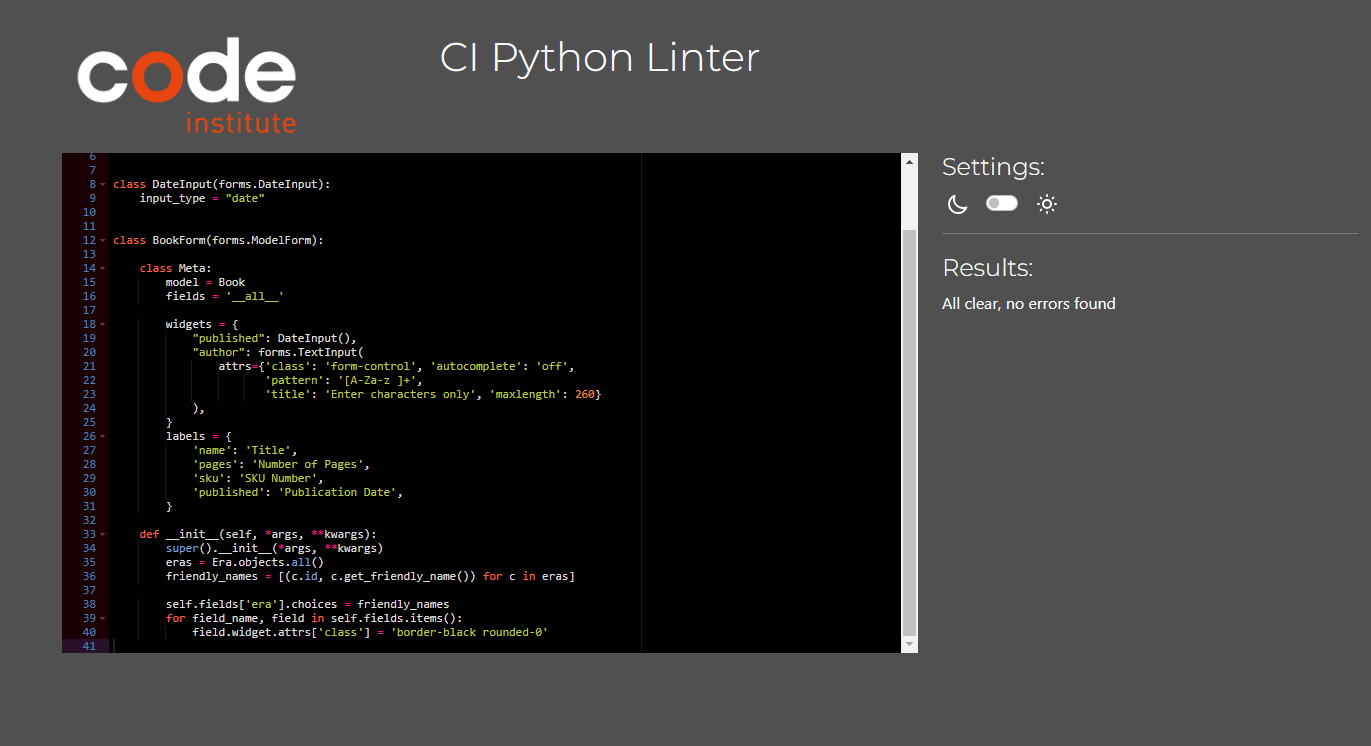
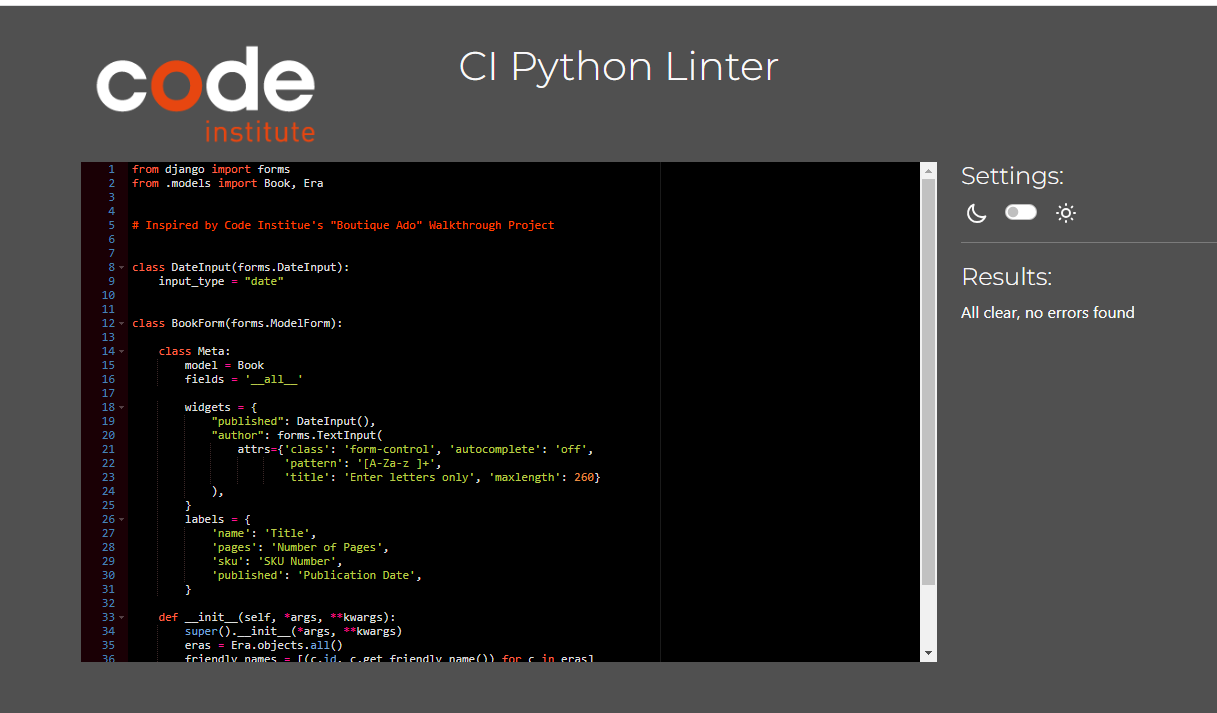
Checkout code review, correct letter only form val

Changed region(s): [[0.0, 0.0, 1.0, 0.9257], [0.3122, 0.0617, 0.6245, 0.1234], [0.3122, 0.4628, 0.3747, 0.4937]]

diff --git a/checkout/templates/checkout/checkout_success.html b/checkout/templates/checkout/checkout_success.html
@@ -3,26 +3,30 @@
 {% load static %}
 
 {% block content %}
+<!-- Order confirmation -->
 <div class="overlay"></div>
+<!-- Checkout success page header -->
 <div class="col main-clr-thm">
     <h2 class="text-center py-2">Thank You For Your Order</h2>
 </div>
+<!-- Order confirmation container -->
 <div class="container">
     <div class="row">
+        <!-- Order confirmation notice -->
         <p class="text-black mt-3 text-break ml-3">
             Please find information below. Shortly a confirmation email should be
             received in the
             email box: <strong>{{ order.email }}</strong>.
         </p>
         <div class="col-12 col-lg-7">
-
+            <!-- Order confirmation wrapper -->
             <div class="order-confirmation-wrapper p-2 border">
+                <!-- Order details info -->
                 <div class="row">
                     <div class="col">
                         <small class="text-muted">Order Info:</small>
                     </div>
                 </div>
-
                 <div class="row">
                     <div class="col-12 col-md-4">
                         <p class="mb-0 text-black font-weight-bold">Order Number</p>
@@ -31,7 +35,6 @@
                         <p class="mb-0">{{ order.order_number }}</p>
                     </div>
                 </div>
-
                 <div class="row">
                     <div class="col-12 col-md-4">
                         <p class="mb-0 text-black font-weight-bold">Order Date</p>
@@ -40,13 +43,11 @@
                         <p class="mb-0">{{ order.date }}</p>
                     </div>
                 </div>
-
                 <div class="row">
                     <div class="col">
                         <small class="text-muted">Order Details:</small>
                     </div>
                 </div>
-
                 {% for item in order.lineitems.all %}
                 <div class="row">
                     <div class="col-12 col-md-4">
@@ -58,13 +59,12 @@
                     </div>
                 </div>
                 {% endfor %}
-
+                <!-- Delivery info -->
                 <div class="row">
                     <div class="col">
                         <small class="text-muted">Delivering To:</small>
                     </div>
                 </div>
-
                 <div class="row">
                     <div class="col-12 col-md-4">
                         <p class="mb-0 text-black font-weight-bold">Full Name</p>
@@ -73,7 +73,6 @@
                         <p class="mb-0">{{ order.full_name }}</p>
                     </div>
                 </div>
-
                 <div class="row">
                     <div class="col-12 col-md-4">
                         <p class="mb-0 text-black font-weight-bold">Address 1</p>
@@ -82,7 +81,6 @@
                         <p class="mb-0">{{ order.street_address1 }}</p>
                     </div>
                 </div>
-
                 {% if order.street_address2 %}
                 <div class="row">
                     <div class="col-12 col-md-4">
@@ -93,7 +91,6 @@
                     </div>
                 </div>
                 {% endif %}
-
                 {% if order.county %}
                 <div class="row">
                     <div class="col-12 col-md-4">
@@ -104,7 +101,6 @@
                     </div>
                 </div>
                 {% endif %}
-
                 <div class="row">
                     <div class="col-12 col-md-4">
                         <p class="mb-0 text-black font-weight-bold">Town or City</p>
@@ -113,7 +109,6 @@
                         <p class="mb-0">{{ order.town_or_city }}</p>
                     </div>
                 </div>
-
                 {% if order.postcode %}
                 <div class="row">
                     <div class="col-12 col-md-4">
@@ -124,7 +119,6 @@
                     </div>
                 </div>
                 {% endif %}
-
                 <div class="row">
                     <div class="col-12 col-md-4">
                         <p class="mb-0 text-black font-weight-bold">Country</p>
@@ -133,7 +127,6 @@
                         <p class="mb-0">{{ order.country }}</p>
                     </div>
                 </div>
-
                 <div class="row">
                     <div class="col-12 col-md-4">
                         <p class="mb-0 text-black font-weight-bold">Phone Number</p>
@@ -142,13 +135,12 @@
                         <p class="mb-0">{{ order.phone_number }}</p>
                     </div>
                 </div>
-
+                <!-- Billing info -->
                 <div class="row">
                     <div class="col">
                         <small class="text-muted">Billing Info:</small>
                     </div>
                 </div>
-
                 <div class="row">
                     <div class="col-12 col-md-4">
                         <p class="mb-0 text-black font-weight-bold">Order Total</p>
@@ -157,7 +149,6 @@
                         <p class="mb-0">${{ order.order_total }}</p>
                     </div>
                 </div>
-
                 <div class="row">
                     <div class="col-12 col-md-4">
                         <p class="mb-0 text-black font-weight-bold">Delivery</p>
@@ -166,7 +157,6 @@
                         <p class="mb-0">${{ order.delivery_cost }}</p>
                     </div>
                 </div>
-
                 <div class="row">
                     <div class="col-12 col-md-4">
                         <p class="mb-0 text-black font-weight-bold">Grand Total</p>
@@ -180,6 +170,7 @@
     </div>
     <div class="row">
         <div class="col-12">
+            <!-- Back to profile button for viewing order from user's profile  -->
             {% if from_profile %}
             <a href="{% url 'profile' %}" class="my-4 text-uppercase btn main-clr-thm">
                 <span class="icon mr-2">
@@ -188,6 +179,7 @@
                 <span class="text-uppercase">Back to Profile</span>
             </a>
             {% else %}
+            <!-- Button to All Books page if not from profile -->
             <a href="{% url 'books' %}" class="my-4 text-uppercase btn main-clr-thm">
                 <span>
                     <i class="icon fa-solid fa-book-open"></i> Find your next book now

diff --git a/profiles/forms.py b/profiles/forms.py
@@ -24,7 +24,7 @@ class UserProfileForm(forms.ModelForm):
                                                    'class': 'form-control',
                                                    'autocomplete': 'off',
                                                    'pattern': '[A-Za-z ]+',
-                                                   'title': 'Characters only',
+                                                   'title': 'Letters only',
                                                    'maxlength': 40
                                                }))
 
@@ -35,7 +35,7 @@ class UserProfileForm(forms.ModelForm):
                                              'class': 'form-control',
                                              'autocomplete': 'off',
                                              'pattern': '[A-Za-z ]+',
-                                             'title': 'Characters only',
+                                             'title': 'Letters only',
                                              'maxlength': 80
                                          }))
 

diff --git a/checkout/forms.py b/checkout/forms.py
@@ -12,7 +12,7 @@ class OrderForm(forms.ModelForm):
             'class': 'form-control',
             'autocomplete': 'off',
             'pattern': '[A-Za-z ]+',
-            'title': 'Enter characters only',
+            'title': 'Enter letters only',
             'maxlength': 50
         }))
 
@@ -32,7 +32,7 @@ class OrderForm(forms.ModelForm):
             'class': 'form-control',
             'autocomplete': 'off',
             'pattern': '[A-Za-z ]+',
-            'title': 'Enter characters only',
+            'title': 'Enter letters only',
             'maxlength': 40
         }))
 
@@ -42,7 +42,7 @@ class OrderForm(forms.ModelForm):
             'class': 'form-control',
             'autocomplete': 'off',
             'pattern': '[A-Za-z ]+',
-            'title': 'Enter characters only',
+            'title': 'Enter letters only',
             'maxlength': 80
         }))
 

diff --git a/books/forms.py b/books/forms.py
@@ -20,7 +20,7 @@ class BookForm(forms.ModelForm):
             "author": forms.TextInput(
                 attrs={'class': 'form-control', 'autocomplete': 'off',
                        'pattern': '[A-Za-z ]+',
-                       'title': 'Enter characters only', 'maxlength': 260}
+                       'title': 'Enter letters only', 'maxlength': 260}
             ),
         }
         labels = {
